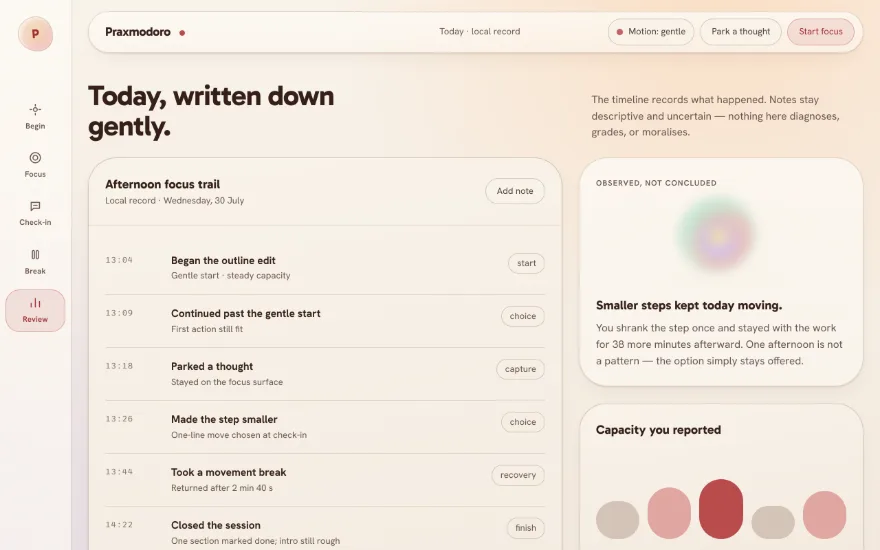
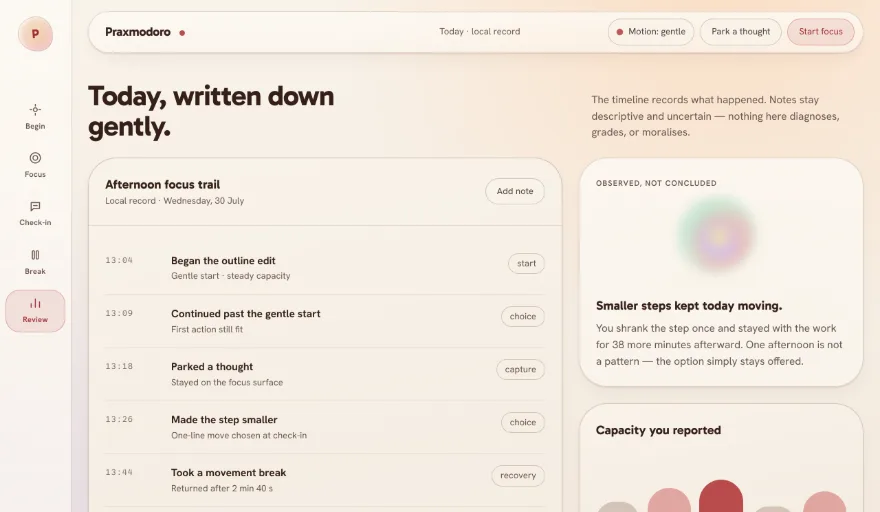
fix(site): crop app renders between lines so no text is cut
Three loop renders cut text at the bottom edge: the companion caption on
Begin, the Return to focus button and last two answers on Check-in, and the
last timeline row on Review. Each screen now has its own crop height that
ends between lines in both light and dark, and the render script stops if
a crop would cut through text. The window frame shows each image at its own
ratio, and a new test checks every declared image size against the files.

Claude-Session: https://claude.ai/code/session_01UDAfXpEwQD9PZCM8oGKaMc

diff --git a/site/public/index.html b/site/public/index.html
@@ -264,7 +264,7 @@
               <div class="mac-titlebar" aria-hidden="true"><span></span><span></span><span></span></div>
               <picture>
                 <source media="(prefers-color-scheme: dark)" type="image/webp" srcset="/assets/img/app-initiate-dark-880.webp 880w, /assets/img/app-initiate-dark-1600.webp 1600w" sizes="(min-width: 68rem) 48rem, calc(100vw - 2.5rem)">
-                <img src="/assets/img/app-initiate-light-1600.webp" srcset="/assets/img/app-initiate-light-880.webp 880w, /assets/img/app-initiate-light-1600.webp 1600w" sizes="(min-width: 68rem) 48rem, calc(100vw - 2.5rem)" width="1600" height="1000" loading="lazy" decoding="async" alt="The Begin screen: a task field, a numbered first step, four capacity choices, four rhythms and a Begin gentle start button, with the companion field gathering beside them.">
+                <img src="/assets/img/app-initiate-light-1600.webp" srcset="/assets/img/app-initiate-light-880.webp 880w, /assets/img/app-initiate-light-1600.webp 1600w" sizes="(min-width: 68rem) 48rem, calc(100vw - 2.5rem)" width="1600" height="905" loading="lazy" decoding="async" alt="The Begin screen: a task field, a numbered first step, four capacity choices, four rhythms and a Begin gentle start button, with the companion field gathering beside them.">
               </picture>
             </figure>
           </li>
@@ -304,7 +304,7 @@
               <div class="mac-titlebar" aria-hidden="true"><span></span><span></span><span></span></div>
               <picture>
                 <source media="(prefers-color-scheme: dark)" type="image/webp" srcset="/assets/img/app-checkin-dark-880.webp 880w, /assets/img/app-checkin-dark-1600.webp 1600w" sizes="(min-width: 68rem) 48rem, calc(100vw - 2.5rem)">
-                <img src="/assets/img/app-checkin-light-1600.webp" srcset="/assets/img/app-checkin-light-880.webp 880w, /assets/img/app-checkin-light-1600.webp 1600w" sizes="(min-width: 68rem) 48rem, calc(100vw - 2.5rem)" width="1600" height="1000" loading="lazy" decoding="async" alt="The Check-in screen asking How does the step fit right now, with four answers: still fits, make the step smaller, I drifted somewhere else, and I could use a break.">
+                <img src="/assets/img/app-checkin-light-1600.webp" srcset="/assets/img/app-checkin-light-880.webp 880w, /assets/img/app-checkin-light-1600.webp 1600w" sizes="(min-width: 68rem) 48rem, calc(100vw - 2.5rem)" width="1600" height="895" loading="lazy" decoding="async" alt="The Check-in screen asking How does the step fit right now, with four answers: still fits, make the step smaller, I drifted somewhere else, and I could use a break.">
               </picture>
             </figure>
           </li>
@@ -343,7 +343,7 @@
               <div class="mac-titlebar" aria-hidden="true"><span></span><span></span><span></span></div>
               <picture>
                 <source media="(prefers-color-scheme: dark)" type="image/webp" srcset="/assets/img/app-review-dark-880.webp 880w, /assets/img/app-review-dark-1600.webp 1600w" sizes="(min-width: 68rem) 48rem, calc(100vw - 2.5rem)">
-                <img src="/assets/img/app-review-light-1600.webp" srcset="/assets/img/app-review-light-880.webp 880w, /assets/img/app-review-light-1600.webp 1600w" sizes="(min-width: 68rem) 48rem, calc(100vw - 2.5rem)" width="1600" height="1000" loading="lazy" decoding="async" alt="The Review screen: a timeline of an afternoon session from 13:04 to 14:22 and a note that says Smaller steps kept today moving.">
+                <img src="/assets/img/app-review-light-1600.webp" srcset="/assets/img/app-review-light-880.webp 880w, /assets/img/app-review-light-1600.webp 1600w" sizes="(min-width: 68rem) 48rem, calc(100vw - 2.5rem)" width="1600" height="930" loading="lazy" decoding="async" alt="The Review screen: a timeline of an afternoon session from 13:04 to 14:22 and a note that says Smaller steps kept today moving.">
               </picture>
             </figure>
           </li>

diff --git a/site/src/pages/index.html b/site/src/pages/index.html
@@ -208,7 +208,7 @@
               <div class="mac-titlebar" aria-hidden="true"><span></span><span></span><span></span></div>
               <picture>
                 <source media="(prefers-color-scheme: dark)" type="image/webp" srcset="/assets/img/app-initiate-dark-880.webp 880w, /assets/img/app-initiate-dark-1600.webp 1600w" sizes="(min-width: 68rem) 48rem, calc(100vw - 2.5rem)">
-                <img src="/assets/img/app-initiate-light-1600.webp" srcset="/assets/img/app-initiate-light-880.webp 880w, /assets/img/app-initiate-light-1600.webp 1600w" sizes="(min-width: 68rem) 48rem, calc(100vw - 2.5rem)" width="1600" height="1000" loading="lazy" decoding="async" alt="The Begin screen: a task field, a numbered first step, four capacity choices, four rhythms and a Begin gentle start button, with the companion field gathering beside them.">
+                <img src="/assets/img/app-initiate-light-1600.webp" srcset="/assets/img/app-initiate-light-880.webp 880w, /assets/img/app-initiate-light-1600.webp 1600w" sizes="(min-width: 68rem) 48rem, calc(100vw - 2.5rem)" width="1600" height="905" loading="lazy" decoding="async" alt="The Begin screen: a task field, a numbered first step, four capacity choices, four rhythms and a Begin gentle start button, with the companion field gathering beside them.">
               </picture>
             </figure>
           </li>
@@ -248,7 +248,7 @@
               <div class="mac-titlebar" aria-hidden="true"><span></span><span></span><span></span></div>
               <picture>
                 <source media="(prefers-color-scheme: dark)" type="image/webp" srcset="/assets/img/app-checkin-dark-880.webp 880w, /assets/img/app-checkin-dark-1600.webp 1600w" sizes="(min-width: 68rem) 48rem, calc(100vw - 2.5rem)">
-                <img src="/assets/img/app-checkin-light-1600.webp" srcset="/assets/img/app-checkin-light-880.webp 880w, /assets/img/app-checkin-light-1600.webp 1600w" sizes="(min-width: 68rem) 48rem, calc(100vw - 2.5rem)" width="1600" height="1000" loading="lazy" decoding="async" alt="The Check-in screen asking How does the step fit right now, with four answers: still fits, make the step smaller, I drifted somewhere else, and I could use a break.">
+                <img src="/assets/img/app-checkin-light-1600.webp" srcset="/assets/img/app-checkin-light-880.webp 880w, /assets/img/app-checkin-light-1600.webp 1600w" sizes="(min-width: 68rem) 48rem, calc(100vw - 2.5rem)" width="1600" height="895" loading="lazy" decoding="async" alt="The Check-in screen asking How does the step fit right now, with four answers: still fits, make the step smaller, I drifted somewhere else, and I could use a break.">
               </picture>
             </figure>
           </li>
@@ -287,7 +287,7 @@
               <div class="mac-titlebar" aria-hidden="true"><span></span><span></span><span></span></div>
               <picture>
                 <source media="(prefers-color-scheme: dark)" type="image/webp" srcset="/assets/img/app-review-dark-880.webp 880w, /assets/img/app-review-dark-1600.webp 1600w" sizes="(min-width: 68rem) 48rem, calc(100vw - 2.5rem)">
-                <img src="/assets/img/app-review-light-1600.webp" srcset="/assets/img/app-review-light-880.webp 880w, /assets/img/app-review-light-1600.webp 1600w" sizes="(min-width: 68rem) 48rem, calc(100vw - 2.5rem)" width="1600" height="1000" loading="lazy" decoding="async" alt="The Review screen: a timeline of an afternoon session from 13:04 to 14:22 and a note that says Smaller steps kept today moving.">
+                <img src="/assets/img/app-review-light-1600.webp" srcset="/assets/img/app-review-light-880.webp 880w, /assets/img/app-review-light-1600.webp 1600w" sizes="(min-width: 68rem) 48rem, calc(100vw - 2.5rem)" width="1600" height="930" loading="lazy" decoding="async" alt="The Review screen: a timeline of an afternoon session from 13:04 to 14:22 and a note that says Smaller steps kept today moving.">
               </picture>
             </figure>
           </li>

diff --git a/site/test/site.test.js b/site/test/site.test.js
@@ -112,6 +112,39 @@ for (const page of htmlPages) {
   });
 }
 
+/** Width and height of a WebP file, from its RIFF header. */
+function webpSize(file) {
+  const b = readFileSync(join(publicDir, file));
+  const chunk = b.toString("ascii", 12, 16);
+  if (chunk === "VP8X") return { width: 1 + b.readUIntLE(24, 3), height: 1 + b.readUIntLE(27, 3) };
+  if (chunk === "VP8 ") return { width: b.readUInt16LE(26) & 0x3fff, height: b.readUInt16LE(28) & 0x3fff };
+  if (chunk === "VP8L") {
+    const bits = b.readUInt32LE(21);
+    return { width: 1 + (bits & 0x3fff), height: 1 + ((bits >> 14) & 0x3fff) };
+  }
+  throw new Error(`${file} is not a WebP file`);
+}
+
+test("app renders: declared sizes match the files, in light and dark, at every width", () => {
+  const html = read("index.html");
+  const pictures = [...html.matchAll(/<picture>([\s\S]*?)<\/picture>/g)].map((m) => m[1]);
+  assert.ok(pictures.length >= 5);
+  for (const picture of pictures) {
+    const img = tags(picture, "img")[0];
+    const width = Number(attr(img, "width"));
+    const height = Number(attr(img, "height"));
+    const candidates = [...picture.matchAll(/\ssrcset="([^"]+)"/g)].flatMap((m) =>
+      m[1].split(",").map((part) => part.trim().split(/\s+/))
+    );
+    candidates.push([attr(img, "src"), `${width}w`]);
+    for (const [url, descriptor] of candidates) {
+      const size = webpSize(url);
+      assert.equal(`${size.width}w`, descriptor, `${url} is not ${descriptor} wide`);
+      assert.ok(Math.abs(size.height - (size.width * height) / width) <= 1, `${url} is ${size.width}x${size.height}, but the page reserves ${width}x${height}`);
+    }
+  }
+});
+
 test("the waitlist forms send exactly what the API reads", () => {
   const html = read("index.html");
   const forms = [...html.matchAll(/<form\b[^>]*data-waitlist-form[^>]*>([\s\S]*?)<\/form>/g)];

diff --git a/site/public/assets/css/site.css b/site/public/assets/css/site.css
@@ -1517,7 +1517,7 @@ main { overflow-x: clip; }
 .mac-titlebar span:nth-child(2) { background: var(--color-light-min); }
 .mac-titlebar span:nth-child(3) { background: var(--color-light-max); }
 
-.mac-window img { width: 100%; aspect-ratio: 16 / 10; object-fit: cover; }
+.mac-window img { width: 100%; height: auto; }
 
 .render-note {
   margin-block-start: clamp(3rem, 2rem + 3vw, 5rem);
